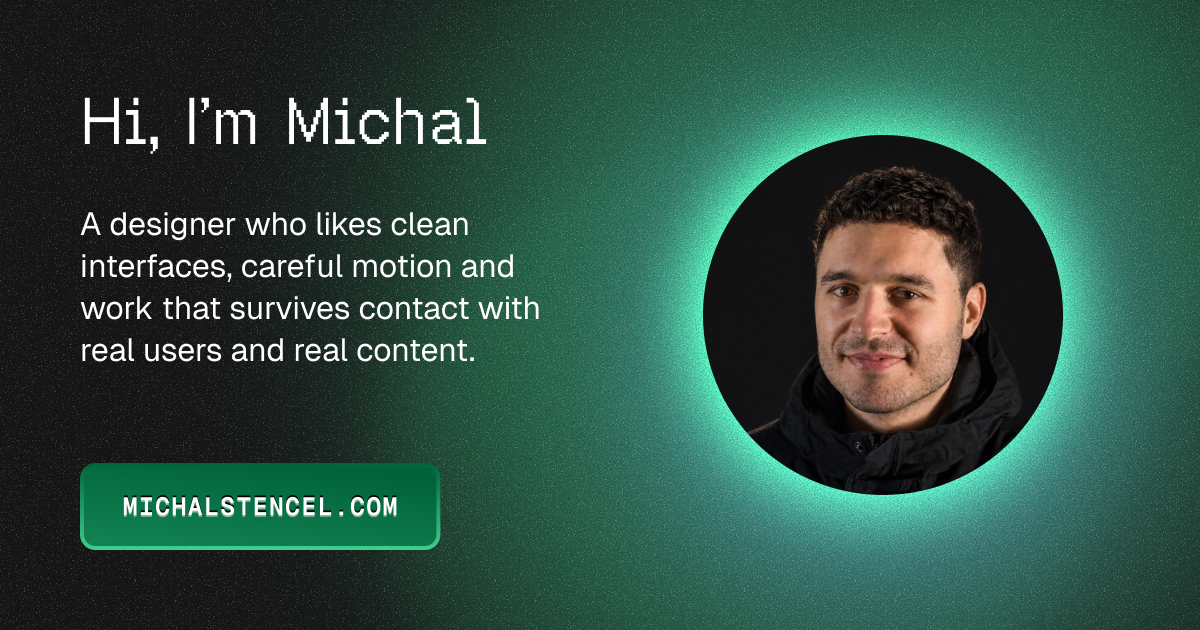
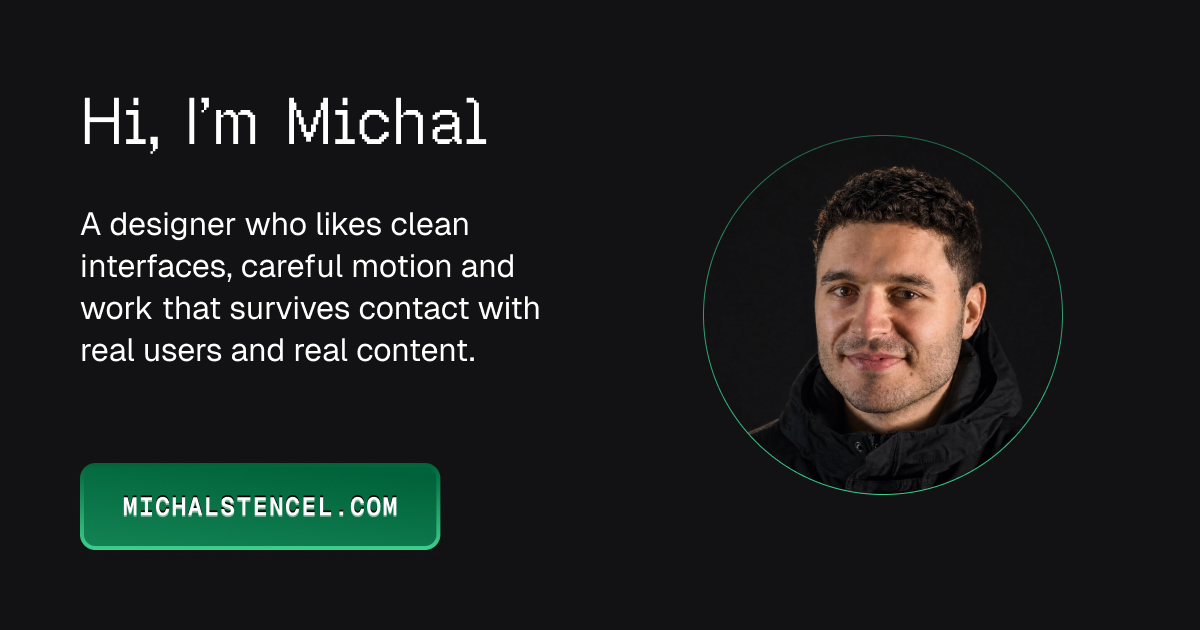
update open-graph

diff --git a/index.html b/index.html
@@ -1,4 +1,4 @@
-<!DOCTYPE html><!--  This site was created in Webflow. https://webflow.com  --><!--  Last Published: Sat Sep 12 2026 19:34:16 GMT+0000 (Coordinated Universal Time)  -->
+<!DOCTYPE html><!--  This site was created in Webflow. https://webflow.com  --><!--  Last Published: Sat Sep 12 2026 19:42:21 GMT+0000 (Coordinated Universal Time)  -->
 <html data-wf-page="6a953a28edcdfa413dbb37f7" data-wf-site="6a953a28edcdfa413dbb37f8">
 <head>
   <meta charset="utf-8">
@@ -6,7 +6,7 @@
   <meta content="A designer who likes clean interfaces, careful motion and work that survives contact with real users and real content. Available for product design roles. View portfolio and CV." name="description">
   <meta content="Michal Stencel – Product Designer Portfolio &amp; CV" property="og:title">
   <meta content="A designer who likes clean interfaces, careful motion and work that survives contact with real users and real content. Available for product design roles. View portfolio and CV." property="og:description">
-  <meta content="https://cdn.prod.website-files.com/6a953a28edcdfa413dbb37f8/6a953a28edcdfa413dbb37e6_633c3158fef8b3a52f3dc42a57a49347_open-graph.jpg" property="og:image">
+  <meta content="https://cdn.prod.website-files.com/6a953a28edcdfa413dbb37f8/6a953a28edcdfa413dbb37e6_0759333577e0f8462ad46df61e0dfed8_open-graph.jpg" property="og:image">
   <meta content="Michal Stencel – Product Designer Portfolio &amp; CV" name="twitter:title">
   <meta content="A designer who likes clean interfaces, careful motion and work that survives contact with real users and real content. Available for product design roles. View portfolio and CV." name="twitter:description">
   <meta property="og:type" content="website">

diff --git a/401.html b/401.html
@@ -1,4 +1,4 @@
-<!DOCTYPE html><!--  This site was created in Webflow. https://webflow.com  --><!--  Last Published: Sat Sep 12 2026 19:34:16 GMT+0000 (Coordinated Universal Time)  -->
+<!DOCTYPE html><!--  This site was created in Webflow. https://webflow.com  --><!--  Last Published: Sat Sep 12 2026 19:42:21 GMT+0000 (Coordinated Universal Time)  -->
 <html data-wf-page="6a953a28edcdfa413dbb3818" data-wf-site="6a953a28edcdfa413dbb37f8">
 <head>
   <meta charset="utf-8">

diff --git a/404.html b/404.html
@@ -1,4 +1,4 @@
-<!DOCTYPE html><!--  This site was created in Webflow. https://webflow.com  --><!--  Last Published: Sat Sep 12 2026 19:34:16 GMT+0000 (Coordinated Universal Time)  -->
+<!DOCTYPE html><!--  This site was created in Webflow. https://webflow.com  --><!--  Last Published: Sat Sep 12 2026 19:42:21 GMT+0000 (Coordinated Universal Time)  -->
 <html data-wf-page="6a953a28edcdfa413dbb3829" data-wf-site="6a953a28edcdfa413dbb37f8">
 <head>
   <meta charset="utf-8">

diff --git a/design-system.html b/design-system.html
@@ -1,4 +1,4 @@
-<!DOCTYPE html><!--  This site was created in Webflow. https://webflow.com  --><!--  Last Published: Sat Sep 12 2026 19:34:16 GMT+0000 (Coordinated Universal Time)  -->
+<!DOCTYPE html><!--  This site was created in Webflow. https://webflow.com  --><!--  Last Published: Sat Sep 12 2026 19:42:21 GMT+0000 (Coordinated Universal Time)  -->
 <html data-wf-page="6a953a28edcdfa413dbb382a" data-wf-site="6a953a28edcdfa413dbb37f8">
 <head>
   <meta charset="utf-8">
